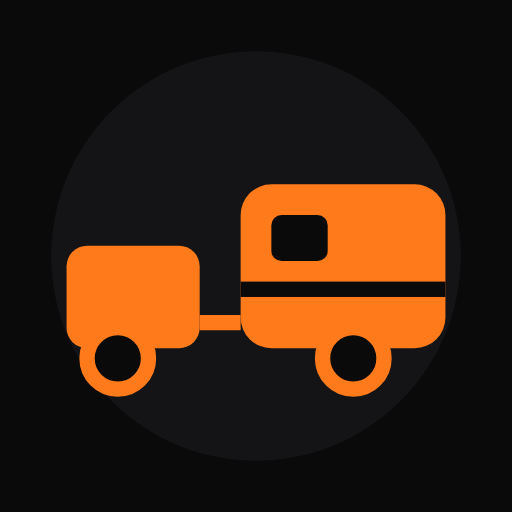
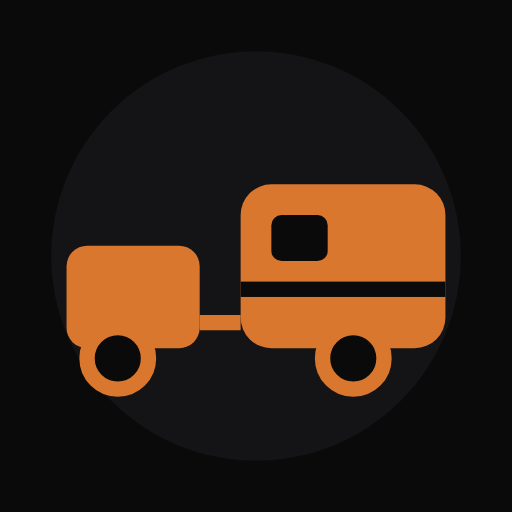
Ruhigeres Orange, normale Karte (Version 7)
Karte wieder in der normalen hellen Ansicht, gedämpfter Orangeton ohne
Leuchteffekte, Abbiegeschild dunkel mit orangem Pfeil statt großer
oranger Fläche, Systemleisten-Farbe dunkel.

Claude-Session: https://claude.ai/code/session_01BpLa17bpJVZ1KedFk7FAQo

Changed region(s): [[0.125, 0.3438, 0.875, 0.7812]]

diff --git a/index.html b/index.html
@@ -4,7 +4,7 @@
 <meta charset="utf-8">
 <meta name="viewport" content="width=device-width,initial-scale=1,viewport-fit=cover">
 <title>Gespann-Navi</title>
-<meta name="theme-color" content="#0a0a0b">
+<meta name="theme-color" content="#111113">
 <meta name="mobile-web-app-capable" content="yes">
 <meta name="apple-mobile-web-app-capable" content="yes">
 <link rel="manifest" href="manifest.webmanifest">
@@ -17,8 +17,8 @@
    Farbwelt: Schwarz mit Signal-Orange, bewusst nur ein dunkles Erscheinungsbild. */
 :root{
   --bg:#0a0a0b; --panel:#111113; --raise:#17171a; --ink:#f4f3f0; --muted:#9c9ca3; --line:#28282d; --field:#1b1b1f;
-  --sign:#ff7a1a; --sign-ink:#120a03; --sign-soft:rgba(255,122,26,.14); --amber:#ffb020; --ok:#3ccf7a; --warn:#ffb020; --bad:#ff5a4f;
-  --link:#ff9a4d; --shadow:0 10px 30px rgba(0,0,0,.6);
+  --sign:#d9772f; --sign-ink:#140b04; --sign-soft:rgba(217,119,47,.14); --amber:#ffb020; --ok:#3ccf7a; --warn:#ffb020; --bad:#ff5a4f;
+  --link:#e8995e; --shadow:0 10px 30px rgba(0,0,0,.6);
   --f-display:"Barlow Condensed","Arial Narrow",Arial,sans-serif;
   --f-body:"Barlow","Segoe UI",Roboto,Arial,sans-serif;
   color-scheme:dark;
@@ -36,14 +36,14 @@ a{color:var(--link)}
 #panel{background:var(--panel);border-right:1px solid var(--line);display:flex;flex-direction:column;min-height:0;z-index:5}
 .p-head{padding:14px 18px 0;padding-top:max(14px,env(safe-area-inset-top,0px));padding-left:max(18px,env(safe-area-inset-left,0px))}
 .brand{display:flex;align-items:center;gap:10px}
-.brand-mark{width:38px;height:38px;border-radius:9px;background:var(--sign);display:grid;place-items:center;flex:none;box-shadow:0 0 0 1px rgba(255,255,255,.06),0 4px 14px rgba(255,122,26,.35)}
+.brand-mark{width:38px;height:38px;border-radius:9px;background:var(--sign);display:grid;place-items:center;flex:none;box-shadow:0 0 0 1px rgba(255,255,255,.06)}
 .brand h1{font:700 26px/1 var(--f-display);letter-spacing:.02em;margin:0;text-transform:uppercase}
 .brand h1 span{color:var(--sign)}
 .brand small{display:block;font:500 12px/1.2 var(--f-body);color:var(--muted);letter-spacing:.02em;margin-top:3px}
 #sheetToggle{display:none;margin-left:auto;background:none;border:0;padding:6px;border-radius:6px;color:var(--muted)}
 .tabs{display:flex;gap:2px;margin-top:14px;border-bottom:1px solid var(--line)}
 .tab{background:none;border:0;padding:9px 11px 10px;font:600 15px var(--f-display);letter-spacing:.06em;text-transform:uppercase;color:var(--muted);border-bottom:3px solid transparent;margin-bottom:-1px;cursor:pointer}
-.tab[aria-selected="true"]{color:var(--sign);border-bottom-color:var(--sign)}
+.tab[aria-selected="true"]{color:var(--ink);border-bottom-color:var(--sign)}
 .tab .cnt{font:600 11px var(--f-body);background:var(--field);border:1px solid var(--line);border-radius:999px;padding:0 6px;margin-left:4px;letter-spacing:0}
 .p-body{overflow:auto;padding:16px 18px 28px;padding-left:max(18px,env(safe-area-inset-left,0px));padding-bottom:max(28px,env(safe-area-inset-bottom,0px));display:flex;flex-direction:column;gap:18px;min-height:0}
 
@@ -62,7 +62,7 @@ label.f .lab em{font-style:normal;opacity:.75;font-size:11px}
 .check{display:flex;align-items:center;gap:8px;font-size:14px;cursor:pointer}
 .check input{width:18px;height:18px;accent-color:var(--sign)}
 
-#sideview{width:100%;height:auto;display:block;background:radial-gradient(120% 90% at 50% 100%,rgba(255,122,26,.10),transparent 60%),var(--raise);border-radius:12px;border:1px solid var(--line)}
+#sideview{width:100%;height:auto;display:block;background:var(--raise);border-radius:12px;border:1px solid var(--line)}
 #sideview text{font-family:var(--f-display);font-weight:600}
 .sv-ground{stroke:var(--muted)} .sv-dim{stroke:var(--muted);fill:none} .sv-txt{fill:var(--ink)} .sv-sub{fill:var(--muted)}
 
@@ -93,9 +93,9 @@ label.f .lab em{font-style:normal;opacity:.75;font-size:11px}
 .linkbtn{background:none;border:0;color:var(--link);padding:0;font-size:13.5px;font-weight:600;cursor:pointer;align-self:flex-start}
 
 .btn{border:0;border-radius:8px;padding:12px 16px;font:700 17px/1 var(--f-display);letter-spacing:.06em;text-transform:uppercase;cursor:pointer;display:inline-flex;align-items:center;justify-content:center;gap:8px}
-.btn.primary{background:var(--sign);color:var(--sign-ink);box-shadow:0 4px 16px rgba(255,122,26,.28)}
+.btn.primary{background:var(--sign);color:var(--sign-ink)}
 .btn.primary:hover,.btn.go:hover{filter:brightness(1.08)}
-.btn.go{background:var(--sign);color:var(--sign-ink);box-shadow:0 4px 16px rgba(255,122,26,.28)}
+.btn.go{background:var(--sign);color:var(--sign-ink)}
 .btn.ghost:hover{border-color:var(--sign)}
 .btn.ghost{background:var(--field);border:1px solid var(--line)}
 .btn.small{padding:8px 10px;font-size:14px}
@@ -164,13 +164,14 @@ label.f .lab em{font-style:normal;opacity:.75;font-size:11px}
 #hud{position:absolute;inset:0;pointer-events:none;z-index:4}
 .topstack{position:absolute;top:max(14px,env(safe-area-inset-top,0px));left:max(14px,env(safe-area-inset-left,0px));width:min(440px,calc(100% - 28px));display:flex;flex-direction:column;gap:8px}
 .topstack > *,.bar,.toast{pointer-events:auto}
-.mcard{background:var(--sign);color:var(--sign-ink);border-radius:14px;box-shadow:var(--shadow);overflow:hidden;border:2px solid #000}
+.mcard{background:#16161a;color:var(--ink);border-radius:14px;box-shadow:var(--shadow);overflow:hidden;border:1px solid #2c2c32}
+.mcard .dist{color:var(--ink)}
 .mcard .main{display:grid;grid-template-columns:64px 1fr;gap:12px;padding:12px 14px;align-items:center}
 .mcard .arrow{width:64px;height:64px}
 .mcard .dist{font:700 34px/1 var(--f-display);font-variant-numeric:tabular-nums}
 .mcard .instr{font:500 16px/1.25 var(--f-body);margin-top:3px}
 .mcard .instr{font-weight:600}
-.mcard .then{background:#000;color:var(--ink);padding:7px 14px;font-size:13px;display:flex;gap:8px;align-items:center}
+.mcard .then{background:#0d0d10;color:var(--muted);border-top:1px solid #2c2c32;padding:7px 14px;font-size:13px;display:flex;gap:8px;align-items:center}
 .mcard .then svg{flex:none}
 .wbanner{display:grid;grid-template-columns:auto 1fr;gap:10px;align-items:center;background:#ffd54a;color:#1d1600;border:2px solid #1d1600;border-radius:10px;padding:8px 12px;box-shadow:var(--shadow);font-size:13.5px;line-height:1.3}
 .wbanner.s2{background:#c8261d;color:#fff;border-color:#fff}
@@ -208,8 +209,8 @@ body:not(.gps) .gpsonly{display:none!important}
 .maplibregl-ctrl-attrib a{color:var(--muted)!important}
 .maplibregl-ctrl-attrib-button{filter:invert(1)}
 .mk{width:22px;height:22px;border-radius:50%;border:4px solid #fff;box-shadow:0 1px 6px rgba(0,0,0,.4)}
-.mk{border-color:#000!important;box-shadow:0 0 0 2px var(--sign),0 2px 8px rgba(0,0,0,.6)!important}
-.mk.start{background:#fff} .mk.ziel{background:var(--sign);border-radius:5px} .mk.via{background:#ffd23f}
+.mk{border-color:#fff!important;box-shadow:0 1px 6px rgba(0,0,0,.45)!important}
+.mk.start{background:#1a1a1d} .mk.ziel{background:var(--sign);border-radius:5px} .mk.via{background:#ffd23f}
 
 /* Verkehrslage */
 .tlist{list-style:none;margin:0;padding:0;display:flex;flex-direction:column;gap:6px}
@@ -260,9 +261,9 @@ body:not(.gps) .gpsonly{display:none!important}
     <div class="p-head">
       <div class="brand">
         <div class="brand-mark" aria-hidden="true">
-          <svg width="28" height="19" viewBox="0 0 26 18"><rect x="1" y="5" width="8" height="8" rx="1.5" fill="#120a03"/><rect x="11" y="2" width="14" height="11" rx="2" fill="#120a03"/><line x1="9" y1="11" x2="11" y2="11" stroke="#120a03" stroke-width="1.6"/><circle cx="4" cy="14.5" r="2.2" fill="#120a03" stroke="#ff7a1a" stroke-width="1"/><circle cx="18" cy="14.5" r="2.2" fill="#120a03" stroke="#ff7a1a" stroke-width="1"/></svg>
+          <svg width="28" height="19" viewBox="0 0 26 18"><rect x="1" y="5" width="8" height="8" rx="1.5" fill="#140b04"/><rect x="11" y="2" width="14" height="11" rx="2" fill="#140b04"/><line x1="9" y1="11" x2="11" y2="11" stroke="#140b04" stroke-width="1.6"/><circle cx="4" cy="14.5" r="2.2" fill="#140b04" stroke="#d9772f" stroke-width="1"/><circle cx="18" cy="14.5" r="2.2" fill="#140b04" stroke="#d9772f" stroke-width="1"/></svg>
         </div>
-        <div><h1>Gespann<span>-Navi</span></h1><small>Routen für Pkw mit Wohnwagen · <span id="appVersion">Version 6</span></small></div>
+        <div><h1>Gespann<span>-Navi</span></h1><small>Routen für Pkw mit Wohnwagen · <span id="appVersion">Version 7</span></small></div>
         <button id="sheetToggle" aria-label="Planung ein- oder ausklappen"><svg width="22" height="22" viewBox="0 0 24 24" fill="none" stroke="currentColor" stroke-width="2.2"><path d="M6 15l6-6 6 6"/></svg></button>
       </div>
       <div class="tabs" role="tablist">
@@ -398,7 +399,7 @@ const BORDERS = [["CH",[[[[9.524,47.524],[9.625,47.466],[9.61,47.392],[9.527,47.
 const VALHALLA = "https://valhalla1.openstreetmap.de";
 const PHOTON = "https://photon.komoot.io/api/";
 const OVERPASS = ["https://overpass-api.de/api/interpreter","https://overpass.private.coffee/api/interpreter"];
-const STYLE = "https://tiles.openfreemap.org/styles/dark";
+const STYLE = "https://tiles.openfreemap.org/styles/liberty";
 const AUTOBAHN = "https://verkehr.autobahn.de/o/autobahn/";
 let AVOID = [];   // Bereiche, die bei der Routenberechnung umfahren werden (Stau, Sperrung)
 
@@ -516,7 +517,7 @@ function renderSideview(){
   s.push(`<line class="sv-ground" x1="${pad}" y1="${ground}" x2="${W-pad}" y2="${ground}" stroke-width="1.5"/>`);
   s.push(`<rect x="${wwBodyX}" y="${wwTop+acH}" width="${wwBodyW}" height="${wwBase-wwTop-acH}" rx="${0.35*sc}" fill="#f4f5f2" stroke="#8792a0" stroke-width="1.2"/>`);
   s.push(`<rect x="${wwBodyX+wwBodyW*0.42}" y="${wwTop}" width="${0.75*sc}" height="${acH+1}" rx="2" fill="#dfe3e6" stroke="#8792a0" stroke-width="1"/>`);
-  s.push(`<rect x="${wwBodyX}" y="${wwBase-(wwBase-wwTop)*0.42}" width="${wwBodyW}" height="${Math.max(3,0.1*sc)}" fill="#ff7a1a"/>`);
+  s.push(`<rect x="${wwBodyX}" y="${wwBase-(wwBase-wwTop)*0.42}" width="${wwBodyW}" height="${Math.max(3,0.1*sc)}" fill="#d9772f"/>`);
   s.push(`<rect x="${wwBodyX+wwBodyW*0.12}" y="${wwTop+acH+(wwBase-wwTop)*0.12}" width="${wwBodyW*0.22}" height="${(wwBase-wwTop)*0.22}" rx="3" fill="#2b3440"/>`);
   s.push(`<rect x="${wwBodyX+wwBodyW*0.66}" y="${wwTop+acH+(wwBase-wwTop)*0.12}" width="${wwBodyW*0.22}" height="${(wwBase-wwTop)*0.22}" rx="3" fill="#2b3440"/>`);
   s.push(`<line x1="${wwBodyX+wwBodyW}" y1="${wwBase-4}" x2="${cx}" y2="${ground-0.45*sc}" stroke="#4a5563" stroke-width="3"/>`);
@@ -641,22 +642,21 @@ function initMap(){
     for(const k of ["camp","rest","services"]) map.addImage("i-"+k,iconImage(k),{pixelRatio:2});
     for(const k of ["stau","bau","sperr"]) map.addImage("t-"+k,trafficImage(k),{pixelRatio:2});
     for(const id of ["pkw","route","done","steep","traffic","mans","pois","gespann","gpos"]) map.addSource(id,{type:"geojson",data:EMPTY});
-    // 3D-Gebäude in Anthrazit für die Fahransicht
-    try{map.addLayer({id:"bld3d",type:"fill-extrusion",source:"openmaptiles","source-layer":"building",minzoom:14,paint:{"fill-extrusion-color":"#232328","fill-extrusion-height":["coalesce",["get","render_height"],8],"fill-extrusion-base":["coalesce",["get","render_min_height"],0],"fill-extrusion-opacity":["interpolate",["linear"],["zoom"],14,0,15,.9]}})}catch(e){}
+    // Die normale Karte bringt eigene 3D-Gebäude mit
     map.addLayer({id:"pkw",type:"line",source:"pkw",layout:{"line-join":"round","line-cap":"round"},paint:{"line-color":"#8a8a93","line-width":["interpolate",["linear"],["zoom"],5,2.5,14,6],"line-dasharray":[1.2,1.4],"line-opacity":.85}});
-    map.addLayer({id:"route-case",type:"line",source:"route",layout:{"line-join":"round","line-cap":"round"},paint:{"line-color":"#000000","line-width":["interpolate",["linear"],["zoom"],5,7,14,14,18,17,21,42]}});
-    map.addLayer({id:"route",type:"line",source:"route",layout:{"line-join":"round","line-cap":"round"},paint:{"line-color":"#ff7a1a","line-width":["interpolate",["linear"],["zoom"],5,3.5,14,8,18,10,21,26],"line-opacity":["interpolate",["linear"],["zoom"],16,1,19,.75]}});
+    map.addLayer({id:"route-case",type:"line",source:"route",layout:{"line-join":"round","line-cap":"round"},paint:{"line-color":"#ffffff","line-width":["interpolate",["linear"],["zoom"],5,6,14,13,18,16,21,40]}});
+    map.addLayer({id:"route",type:"line",source:"route",layout:{"line-join":"round","line-cap":"round"},paint:{"line-color":"#d9772f","line-width":["interpolate",["linear"],["zoom"],5,3.5,14,8,18,10,21,26],"line-opacity":["interpolate",["linear"],["zoom"],16,1,19,.75]}});
     map.addLayer({id:"steep",type:"line",source:"steep",layout:{"line-join":"round","line-cap":"round"},paint:{"line-color":["get","c"],"line-width":["interpolate",["linear"],["zoom"],5,3.5,14,8,18,10,21,26]}});
-    map.addLayer({id:"traffic-line",type:"line",source:"traffic",filter:["all",["==",["geometry-type"],"LineString"],["!=",["get","k"],"bau"]],layout:{"line-join":"round","line-cap":"round"},paint:{"line-color":["match",["get","k"],"sperr","#b0150c",["case",[">=",["get","sev"],2],"#ff3b30","#ffd23f"]],"line-width":["interpolate",["linear"],["zoom"],5,4,14,9,18,12,21,28]}});
-    map.addLayer({id:"traffic-bau",type:"line",source:"traffic",filter:["all",["==",["geometry-type"],"LineString"],["==",["get","k"],"bau"]],layout:{"line-join":"round"},paint:{"line-color":"#ffd23f","line-width":["interpolate",["linear"],["zoom"],5,4,14,9,18,12,21,28],"line-dasharray":[1,0.7]}});
-    map.addLayer({id:"done",type:"line",source:"done",layout:{"line-join":"round","line-cap":"round"},paint:{"line-color":"#5b5048","line-width":["interpolate",["linear"],["zoom"],5,3.5,14,8,18,10,21,26]}});
-    map.addLayer({id:"mans",type:"circle",source:"mans",minzoom:11,paint:{"circle-radius":4,"circle-color":"#111113","circle-stroke-color":"#ff7a1a","circle-stroke-width":2}});
+    map.addLayer({id:"traffic-line",type:"line",source:"traffic",filter:["all",["==",["geometry-type"],"LineString"],["!=",["get","k"],"bau"]],layout:{"line-join":"round","line-cap":"round"},paint:{"line-color":["match",["get","k"],"sperr","#b0150c",["case",[">=",["get","sev"],2],"#ff3b30","#e6b400"]],"line-width":["interpolate",["linear"],["zoom"],5,4,14,9,18,12,21,28]}});
+    map.addLayer({id:"traffic-bau",type:"line",source:"traffic",filter:["all",["==",["geometry-type"],"LineString"],["==",["get","k"],"bau"]],layout:{"line-join":"round"},paint:{"line-color":"#e6b400","line-width":["interpolate",["linear"],["zoom"],5,4,14,9,18,12,21,28],"line-dasharray":[1,0.7]}});
+    map.addLayer({id:"done",type:"line",source:"done",layout:{"line-join":"round","line-cap":"round"},paint:{"line-color":"#a8a29c","line-width":["interpolate",["linear"],["zoom"],5,3.5,14,8,18,10,21,26]}});
+    map.addLayer({id:"mans",type:"circle",source:"mans",minzoom:11,paint:{"circle-radius":4,"circle-color":"#ffffff","circle-stroke-color":"#d9772f","circle-stroke-width":2}});
     map.addLayer({id:"pois",type:"symbol",source:"pois",layout:{"icon-image":["concat","i-",["get","kind"]],"icon-size":["interpolate",["linear"],["zoom"],5,0.55,10,0.8,15,1],"icon-allow-overlap":["step",["zoom"],false,9,true],"symbol-sort-key":["get","rank"],
       "text-field":["step",["zoom"],"",10,["get","name"]],"text-font":["Noto Sans Regular"],"text-size":12,"text-offset":[0,1.3],"text-anchor":"top","text-optional":true,"text-max-width":9},
-      paint:{"text-color":"#f4f3f0","text-halo-color":"#000000","text-halo-width":1.4}});
+      paint:{"text-color":"#1a1a1d","text-halo-color":"#ffffff","text-halo-width":1.4}});
     map.addLayer({id:"traffic-pt",type:"symbol",source:"traffic",filter:["==",["geometry-type"],"Point"],layout:{"icon-image":["concat","t-",["get","k"]],"icon-size":["interpolate",["linear"],["zoom"],5,0.55,10,0.8,15,1],"icon-allow-overlap":true,"symbol-sort-key":["-",3,["get","sev"]]}});
     map.addLayer({id:"gespann",type:"fill-extrusion",source:"gespann",paint:{"fill-extrusion-color":["get","c"],"fill-extrusion-height":["get","t"],"fill-extrusion-base":["get","b"],"fill-extrusion-opacity":1}});
-    map.addLayer({id:"gpos",type:"circle",source:"gpos",paint:{"circle-radius":["interpolate",["linear"],["zoom"],5,6,15,9],"circle-color":"#ff7a1a","circle-stroke-color":"#000000","circle-stroke-width":2.5,"circle-opacity":["interpolate",["linear"],["zoom"],15.5,1,16.5,0],"circle-stroke-opacity":["interpolate",["linear"],["zoom"],15.5,1,16.5,0]}});
+    map.addLayer({id:"gpos",type:"circle",source:"gpos",paint:{"circle-radius":["interpolate",["linear"],["zoom"],5,6,15,9],"circle-color":"#d9772f","circle-stroke-color":"#1a1a1d","circle-stroke-width":2.5,"circle-opacity":["interpolate",["linear"],["zoom"],15.5,1,16.5,0],"circle-stroke-opacity":["interpolate",["linear"],["zoom"],15.5,1,16.5,0]}});
     map.on("click","pois",e=>{const f=e.features[0];if(f)openPoi(+f.properties.id)});
     map.on("click","traffic-pt",e=>{const f=e.features[0];if(f)openTraffic(+f.properties.id)});
     map.on("mouseenter","traffic-pt",()=>map.getCanvas().style.cursor="pointer");
@@ -864,7 +864,7 @@ async function loadGrades(RR){
   let mxI=0;for(let q=1;q<N;q++)if(Sm[q]>Sm[mxI])mxI=q;
   RR.profile={step,E:Sm,N,secs,up,down,max:{s:mxI*step,e:Sm[mxI],name:NM[mxI]}};
   renderGrades();
-  map.getSource("steep").setData({type:"FeatureCollection",features:secs.map(x=>({type:"Feature",geometry:{type:"LineString",coordinates:sliceRoute(x.s0,Math.min(x.s1,RR.len))},properties:{c:x.sev===2?"#ff3b30":"#ffd23f"}}))});
+  map.getSource("steep").setData({type:"FeatureCollection",features:secs.map(x=>({type:"Feature",geometry:{type:"LineString",coordinates:sliceRoute(x.s0,Math.min(x.s1,RR.len))},properties:{c:x.sev===2?"#ff3b30":"#e6b400"}}))});
 }
 function sliceRoute(s0,s1){const a=idxAt(s0),b=idxAt(s1);return [posAt(s0),...R.pts.slice(a+1,b+1),posAt(s1)]}
 function renderGrades(){
@@ -874,7 +874,7 @@ function renderGrades(){
   const lo=Math.max(0,Math.floor(mn/100)*100),hi=Math.max(lo+200,Math.ceil(mx/100)*100);
   const X=s=>l+Math.min(s,R.len)/R.len*w,Y=e=>t+h-(e-lo)/(hi-lo)*h;
   const stepI=Math.max(1,Math.floor(P.N/400));let d=`M${X(0)} ${Y(lo)}`;for(let i=0;i<P.N;i+=stepI)d+=` L${X(i*P.step).toFixed(1)} ${Y(P.E[i]).toFixed(1)}`;d+=` L${X(R.len)} ${Y(P.E[P.N-1])} L${X(R.len)} ${Y(lo)} Z`;
-  const segs=P.secs.map(x=>{let p=`M${X(x.s0).toFixed(1)} ${Y(lo)}`;for(let i=Math.floor(x.s0/P.step);i<=Math.ceil(x.s1/P.step)&&i<P.N;i++)p+=` L${X(i*P.step).toFixed(1)} ${Y(P.E[i]).toFixed(1)}`;p+=` L${X(x.s1).toFixed(1)} ${Y(lo)} Z`;return `<path d="${p}" fill="${x.sev===2?"#ff3b30":"#ffd23f"}" opacity=".9"/>`}).join("");
+  const segs=P.secs.map(x=>{let p=`M${X(x.s0).toFixed(1)} ${Y(lo)}`;for(let i=Math.floor(x.s0/P.step);i<=Math.ceil(x.s1/P.step)&&i<P.N;i++)p+=` L${X(i*P.step).toFixed(1)} ${Y(P.E[i]).toFixed(1)}`;p+=` L${X(x.s1).toFixed(1)} ${Y(lo)} Z`;return `<path d="${p}" fill="${x.sev===2?"#ff3b30":"#e6b400"}" opacity=".9"/>`}).join("");
   const kmT=[0,R.len/2,R.len].map((s,k)=>`<text class="ax" x="${X(s)}" y="${H-6}" text-anchor="${k===0?"start":k===2?"end":"middle"}">${Math.round(s/1000)} km</text>`).join("");
   const yT=[lo,hi].map(e=>`<line class="grid" x1="${l}" x2="${W-r}" y1="${Y(e)}" y2="${Y(e)}"/><text class="ax" x="${l-5}" y="${Y(e)+3.5}" text-anchor="end">${e.toLocaleString("de-DE")}</text>`).join("");
   const mxX=X(P.max.s),mxY=Y(P.max.e);
@@ -1252,7 +1252,7 @@ function render(dt){
   const front=[T[0]+g[0]*(bodyL/2)*k,T[1]+g[1]*(bodyL/2)*k];
   box([(front[0]+H[0])/2,(front[1]+H[1])/2],g,Math.hypot(H[0]-front[0],H[1]-front[1])/k,0.22,0.38,0.55,"#3b4450");
   box(T,g,bodyL,w.breite,0.35,1.0,"#f3f4f1");
-  box(T,g,bodyL+0.02,w.breite+0.02,1.0,1.12,"#ff7a1a");
+  box(T,g,bodyL+0.02,w.breite+0.02,1.0,1.12,"#d9772f");
   box(T,g,bodyL,w.breite,1.12,Math.max(1.2,w.hoehe-0.22),"#f3f4f1");
   box(off(T,g,bodyL*0.08),g,0.9,0.8,Math.max(1.2,w.hoehe-0.22),w.hoehe,"#d7dbdf");
   box(off(T,g,-bodyL/2+0.05),g,0.1,w.breite-0.3,0.6,0.85,"#c0281e");
@@ -1290,8 +1290,8 @@ function updateHud(s){
   const talk=SIM.voice&&(SIM.mode==="gps"||(SIM.run&&SIM.mult<=10));
   if(nx){
     const dist=R.cum[nx.b]-s;
-    $("#mDist").textContent=fmtKm(dist); $("#mInstr").textContent=nx.instruction; $("#mArrow").outerHTML=arrowSvg(nx.type,64,"#120a03").replace("<svg",'<svg class="arrow" id="mArrow"');
-    if(nn&&R.cum[nn.b]-R.cum[nx.b]<400){$("#mThen").hidden=false;$("#mThen").innerHTML=`Danach ${arrowSvg(nn.type,18,"#ff7a1a")} ${esc(nn.instruction)}`}else $("#mThen").hidden=true;
+    $("#mDist").textContent=fmtKm(dist); $("#mInstr").textContent=nx.instruction; $("#mArrow").outerHTML=arrowSvg(nx.type,64,"#d9772f").replace("<svg",'<svg class="arrow" id="mArrow"');
+    if(nn&&R.cum[nn.b]-R.cum[nx.b]<400){$("#mThen").hidden=false;$("#mThen").innerHTML=`Danach ${arrowSvg(nn.type,18,"#d9772f")} ${esc(nn.instruction)}`}else $("#mThen").hidden=true;
     if(talk){
       const key=k+1, far=Math.max(500,vNow*30);
       if(dist<far&&dist>far*0.6&&!SIM.said["f"+key]&&R.cum[nx.b]-R.cum[R.mans[k].b]>far){SIM.said["f"+key]=1;speak(`In ${spokenDist(dist)} ${lowerFirst(nx.verbal_succinct_transition_instruction||nx.verbal_pre_transition_instruction||nx.instruction)}`)}

diff --git a/sw.js b/sw.js
@@ -1,6 +1,6 @@
 // Gespann-Navi: App-Hülle für Start ohne Netz zwischenspeichern.
 // Karten, Routen, Suche und Verkehr kommen immer live aus dem Netz.
-const CACHE = "gespann-navi-v6";
+const CACHE = "gespann-navi-v7";
 const SHELL = ["./", "./index.html", "./manifest.webmanifest", "./icon-192.png", "./icon-512.png",
   "https://cdnjs.cloudflare.com/ajax/libs/maplibre-gl/4.7.1/maplibre-gl.js",
   "https://cdnjs.cloudflare.com/ajax/libs/maplibre-gl/4.7.1/maplibre-gl.css"];
